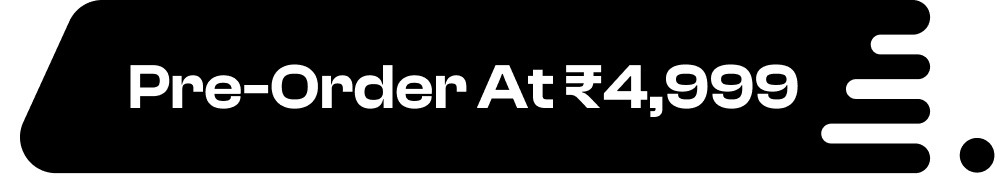
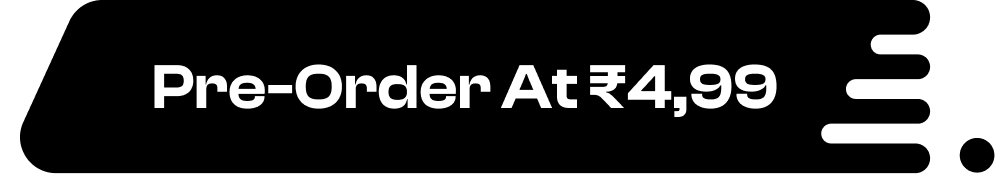
fixed cardsize

Changed region(s): [[0.1246, 0.3448, 0.8101, 0.6897]]

diff --git a/src/screens/sections/MainContentSection/MainContentSection.tsx b/src/screens/sections/MainContentSection/MainContentSection.tsx
@@ -74,7 +74,7 @@ export const MainContentSection = (): JSX.Element => {
 
           {/* Center Image */}
           <img
-            className={`w-[650px] h-[650px] object-cover transition-all duration-1000 transform relative ${
+            className={`w-[350px] h-[350px] sm:w-[450px] sm:h-[450px] md:w-[550px] md:h-[550px] lg:w-[650px] lg:h-[650px] object-cover transition-all duration-1000 transform relative ${
               isVisible ? 'translate-y-0 opacity-100' : 'translate-y-full opacity-0'
             }`}
             alt="AI Teddy Bear"
@@ -98,12 +98,11 @@ export const MainContentSection = (): JSX.Element => {
 
         {/* Special Cards (positioned differently in the original) */}
         <div 
-          className={`absolute top-[50%] left-[20%] w-[200px] transition-all duration-1000 transform ${
+          className={`absolute top-[52%] md:top-[54%] lg:top-[50%] left-[20%] md:left-[10%] lg:left-[20%] w-[200px] transition-all duration-1000 transform ${
             isVisible ? 'translate-x-0 opacity-100' : '-translate-x-full opacity-0'
           }`}
         >
           <div className="flex items-center">
-            <div className="flex-1"></div> {/* Spacer */}
             {renderFeatureCard(
               featureCards.find((card) => card.position === "left-special")!,
             )}
@@ -111,7 +110,7 @@ export const MainContentSection = (): JSX.Element => {
         </div>
 
         <div 
-          className={`absolute top-[50%] right-[20%] w-[200px] transition-all duration-1000 transform ${
+          className={`absolute top-[52%] md:top-[54%] lg:top-[50%]  right-[20%] md:right-[-5%] lg:right-[20%] w-[200px] transition-all duration-1000 transform ${
             isVisible ? 'translate-x-0 opacity-100' : 'translate-x-full opacity-0'
           }`}
         >
@@ -222,23 +221,23 @@ const featureCards = [
 // Helper function to render feature card
 const renderFeatureCard = (card: (typeof featureCards)[0]) => (
   <Card
-    className={`flex flex-col items-start gap-3 bg-white rounded-2xl overflow-hidden border-t-[6px] [border-top-style:solid] ${card.borderColor} shadow-[2px_2px_20px_#0000001f] w-[200px] h-[146px] ${
+    className={`flex flex-col items-start gap-3 bg-white rounded-2xl overflow-hidden border-t-[6px] [border-top-style:solid] ${card.borderColor} shadow-[2px_2px_20px_#0000001f] w-[160px] sm:w-[180px] md:w-[190px] lg:w-[200px] h-[120px] sm:h-[130px] md:h-[140px] lg:h-[146px] ${
       card.position.includes("special")
-        ? "p-4"
+        ? "p-3 sm:p-3 md:p-3 lg:p-4"
         : card.position.includes("bottom")
-          ? "p-4"
-          : "p-4"
+          ? "p-3 sm:p-3 md:p-3 lg:p-4"
+          : "p-3 sm:p-3 md:p-3 lg:p-4"
     }`}
   >
-    <CardContent className="flex flex-col items-start gap-2 p-0 w-full">
-      <div className="w-8 h-8">
+    <CardContent className="flex flex-col items-start gap-1 sm:gap-1.5 md:gap-2 p-0 w-full">
+      <div className="w-6 h-6 sm:w-7 sm:h-7 md:w-8 md:h-8">
         {card.icon}
       </div>
-      <div className="flex flex-col items-start gap-1.5 w-full">
-        <h3 className="[font-family:'Baloo_2',Helvetica] font-bold text-[#1e1e1e] text-lg leading-5 w-full tracking-[0]">
+      <div className="flex flex-col items-start gap-1 sm:gap-1 md:gap-1.5 w-full">
+        <h3 className="[font-family:'Baloo_2',Helvetica] font-bold text-[#1e1e1e] text-base sm:text-base md:text-lg lg:text-lg leading-4 sm:leading-4 md:leading-5 w-full tracking-[0]">
           {card.title}
         </h3>
-        <p className="w-full [font-family:'Arial-Regular',Helvetica] font-normal text-[#1e1e1eb2] text-xs tracking-[0] leading-4">
+        <p className="w-full [font-family:'Arial-Regular',Helvetica] font-normal text-[#1e1e1eb2] text-[10px] sm:text-[11px] md:text-xs tracking-[0] leading-3 sm:leading-3 md:leading-4">
           {card.description}
         </p>
       </div>

diff --git a/src/screens/sections/HeroBannerSection/HeroBannerSection.tsx b/src/screens/sections/HeroBannerSection/HeroBannerSection.tsx
@@ -141,7 +141,7 @@ export const HeroBannerSection = (): JSX.Element => {
               src="/left.png"
             />
           </div>
-          <div className="relative w-full sm:w-[600px] md:w-[800px] lg:w-[987px] h-screen top-[156px]">
+          <div className="relative w-full  h-screen top-[10%]">
             <div className="flex flex-col w-6/4 items-center absolute top-0 left-[36px] md:left-10">
               <div className="flex flex-col items-start gap-14 relative self-stretch w-full flex-[0_0_auto]">
                 <div className="flex flex-col items-start gap-4 relative self-stretch w-full flex-[0_0_auto]  w-1/2">
@@ -149,12 +149,12 @@ export const HeroBannerSection = (): JSX.Element => {
                     <img 
                       src="/preorder.png" 
                       alt="Pre-order mobile" 
-                      className="w-full max-w-[30%] sm:max-w-[30%] md:max-w-[30%] lg:max-w-[30%] mb-4"
+                      className="w-full max-w-[40%] sm:max-w-[40%] md:max-w-[40%] lg:max-w-[40%] mb-4"
                     />
                     <img 
                       src="/maintitle2.png" 
                       alt="AI Teddy Bear" 
-                      className="w-full max-w-[80%] sm:max-w-[60%] md:max-w-[60%] lg:max-w-[70%] mt-0"
+                      className="w-full max-w-[80%] sm:max-w-[80%] md:max-w-[80%] lg:max-w-[80%] mt-0"
                     />
                   </div>
              
@@ -180,7 +180,7 @@ export const HeroBannerSection = (): JSX.Element => {
             transform: 'translateY(-50%)'
           }}>
             <img
-              className="object-contain max-w-[300px] sm:max-w-[400px] md:max-w-[447px] lg:max-w-[690px] max-h-[60vh] w-auto h-auto"
+              className="object-contain max-w-[300px] sm:max-w-[400px] md:max-w-[450px] lg:max-w-[790px] xl:max-w-[890px] max-h-[60vh] sm:max-h-[65vh] md:max-h-[65vh] lg:max-h-[75vh] w-auto h-auto"
               style={{
                 ...teddyStyle,
                 position: 'relative',
@@ -194,7 +194,7 @@ export const HeroBannerSection = (): JSX.Element => {
        
 
         {/* Stats cards - updated positioning */}
-        <div className="flex flex-col w-[104px] md:w-[161px] items-start gap-2 md:gap-3 absolute top-[35%] right-[5%] sm:right-[8%] md:right-[10%] lg:right-[12%]" style={rightSectionStyle}>
+        <div className="flex flex-col w-[104px] sm:w-[120px] md:w-[140px] lg:w-[161px] items-start gap-2 md:gap-3 absolute top-[35%] right-[5%] sm:right-[8%] md:right-[10%] lg:right-[12%]" style={rightSectionStyle}>
           {statsData.map((stat, index) => (
             <Card
               key={index}
